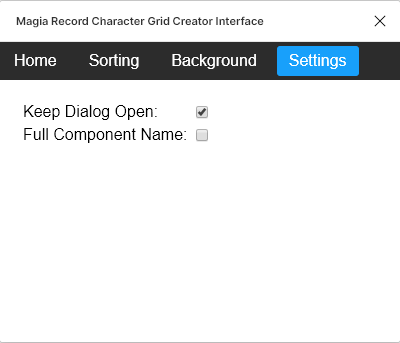
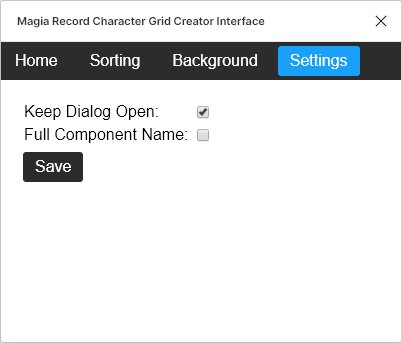
Added Saving Settings and Fixed Background Bug

diff --git a/src/ui.ts b/src/ui.ts
@@ -58,8 +58,13 @@ const ui = {
     },
     settings_tab:           document.getElementById('settings_tab') as HTMLDivElement,
     settings: {
-      keep_open_checkbox:   document.getElementById('keep_open') as HTMLInputElement,
-      full_name_checkbox:   document.getElementById('full_name') as HTMLInputElement,
+      fields: {
+        keep_open_checkbox:   document.getElementById('keep_open') as HTMLInputElement,
+        full_name_checkbox:   document.getElementById('full_name') as HTMLInputElement,
+      },
+      buttons: {
+        save_settings_button: document.getElementById('save_settings') as HTMLButtonElement,
+      }
     },
   }
 }
@@ -133,8 +138,8 @@ document.getElementById('create').onclick = () => {
   const magic = ui.tabs.home.fields.magic_select.value;
   const magia = ui.tabs.home.fields.magia_select.value;
   const episode = ui.tabs.home.fields.episode_select.value;
-  const full_name = ui.tabs.settings.full_name_checkbox.checked;
-  const keep_open = ui.tabs.settings.keep_open_checkbox.checked;
+  const full_name = ui.tabs.settings.fields.full_name_checkbox.checked;
+  const keep_open = ui.tabs.settings.fields.keep_open_checkbox.checked;
   parent.postMessage({ pluginMessage: { type: 'create-display', name, attribute, rank, level, magic, magia, episode, full_name, keep_open } }, '*')
 }
 
@@ -159,8 +164,8 @@ document.getElementById('update').onclick = () => {
   const magic = ui.tabs.home.fields.magic_select.value;
   const magia = ui.tabs.home.fields.magia_select.value;
   const episode = ui.tabs.home.fields.episode_select.value;
-  const full_name = ui.tabs.settings.full_name_checkbox.checked;
-  const keep_open = ui.tabs.settings.keep_open_checkbox.checked;
+  const full_name = ui.tabs.settings.fields.full_name_checkbox.checked;
+  const keep_open = ui.tabs.settings.fields.keep_open_checkbox.checked;
   parent.postMessage({ pluginMessage: { type: 'update-display', name, attribute, rank, level, magic, magia, episode, full_name, keep_open } }, '*')
 }
 
@@ -197,6 +202,15 @@ document.getElementById('resize_background').onclick = () => {
 // removes the current background.
 document.getElementById('remove_background').onclick = () => {
   parent.postMessage({ pluginMessage: { type: 'remove-background' } }, '*')
+}
+
+// save the settings to client storage.
+document.getElementById('save_settings').onclick = () => {
+  var settings = {};
+  for (var field in ui.tabs.settings.fields) {
+    settings[ui.tabs.settings.fields[field].id] = ui.tabs.settings.fields[field].checked;
+  }
+  parent.postMessage({ pluginMessage: { type: 'save-settings', settings: settings } }, '*')
 }
 
 
@@ -244,9 +258,17 @@ onmessage = (event) => {
     name_select.value = name_select.options[0].value;
   }
 
-  // Set isplay_properties with the properties of the current selection.
+  // Set display_properties with the properties of the current selection.
   else if (event.data.pluginMessage.type === 'update-properties') {
     display_properties = event.data.pluginMessage.display_properties
+  }
+
+  // Update the settings checkboxes.
+  else if (event.data.pluginMessage.type === 'update-settings') {
+    var settings = event.data.pluginMessage.settings;
+    for (var setting in settings) {
+      ui.tabs.settings.fields[setting+"_checkbox"].checked = settings[setting];
+    }
   }
 
   // Disable a specific button.

diff --git a/src/character.ts b/src/character.ts
@@ -1,4 +1,5 @@
 import {getDisplayProperties, sortArrayBy} from "./utils";
+import { isBackgroundInstance } from "./background";
 
 
 // Create a new Character Display and returns the instance.
@@ -43,6 +44,7 @@ function updateDisplay (instance: InstanceNode, parameters: any) {
 function setLocation (instance: InstanceNode) {
   if (figma.currentPage.selection.length != 1) return;
   var selection = figma.currentPage.selection[0];
+  if (isBackgroundInstance(selection)) selection = selection.parent as SceneNode;
   if (selection.type == "INSTANCE") {
     if (selection.parent.type == "FRAME" || selection.parent.type == "GROUP" || selection.parent.type == "COMPONENT" || selection.parent.type == "PAGE" || selection.parent.type == "DOCUMENT") {
       // set the instance x and y value.
@@ -58,12 +60,22 @@ function setLocation (instance: InstanceNode) {
     }
   } 
   else if (selection.type == "FRAME" || selection.type == "GROUP" || selection.type == "COMPONENT") {
-    if (selection.children.length > 0) {
-      var last_child = selection.children[0];
+    var last_child = null;
+    var hasBackground = selection.children.some(isBackgroundInstance);
+    if (selection.children.length > 0 && !hasBackground || selection.children.length > 1 && hasBackground) {
+      // get the last character display.
+      if (selection.children.length > 0 && !hasBackground) {
+        if (isCharacterDisplayInstance(selection.children[0]))
+          last_child = selection.children[0];
+      } else if (selection.children.length > 1 && hasBackground) {
+        if (isCharacterDisplayInstance(selection.children[1]))
+          last_child = selection.children[1];
+      } 
+    }
+    if (last_child != null) {
+      // set the instance x and y value.
       var x_next = last_child.x + last_child.width;
       var y_next = last_child.y;
-      
-      // set the instance x and y value.
       if (x_next < selection.width && y_next < selection.height) {
         instance.x = x_next;
         instance.y = y_next;
@@ -76,7 +88,8 @@ function setLocation (instance: InstanceNode) {
         return;
       }
     }
-    selection.insertChild(0, instance);
+    if (hasBackground) selection.insertChild(1, instance);
+    else selection.insertChild(0, instance);
   }
 }
 

diff --git a/src/utils.ts b/src/utils.ts
@@ -23,13 +23,14 @@ function getAttributeRanks (name: string) {
     if (child_name_split[1] == name) {
       var description = JSON.parse(child.description);
       result.attribute = description["attribute"];
-      var rank = parseInt(child_name_split[2].split(" ")[1], 10);
+      var rank = description["rank"];
       result.ranks[rank-1] = false;
     }
   });
   return result;
 }
 
+// get the character id of the name.
 function getCharacterId (name: string) {
   var character_image = figma.getNodeById("1:142") as FrameNode;
   var result = "0"
@@ -118,8 +119,8 @@ function compareVersion(documentCharacters: string, expectedCharacters: string) 
     }
     var result = documentCharacters.match(RegExp("[0-9](.[0-9])*"));
     var expected = expectedCharacters.match(RegExp("[0-9](.[0-9])*"));
-    console.log(result, expected);
-    console.log(parseFloat(result[0]), parseFloat(expected[0]));
+    // console.log(result, expected);
+    // console.log(parseFloat(result[0]), parseFloat(expected[0]));
     if (parseFloat(result[0]) >= parseFloat(expected[0])) {
       // console.log("same or greater version");
       return 0;
@@ -130,6 +131,23 @@ function compareVersion(documentCharacters: string, expectedCharacters: string) 
   } else {
     // console.log("same text");
     return 0;
+  }
+}
+
+const defaultSettings = {"keep_open":true, "full_name":false};
+
+async function getSettings() {
+  var settings = defaultSettings;
+  for (var setting in settings) {
+    var value = await figma.clientStorage.getAsync(setting);
+    if (value !== undefined) settings[setting] = value;
+  }
+  return settings;
+}
+
+async function saveSettings(settings: any) {
+  for (var setting in settings) {
+    await figma.clientStorage.setAsync(setting, settings[setting]);
   }
 }
 
@@ -188,4 +206,4 @@ function sortArrayBy(a: any, b: any, sortBy: any[]) {
   return result;
 }
 
-export {getNames, getAttributeRanks, getCharacterId, getDisplayProperties, compareVersion, printFrameDisplays, createComponentsFromChildren, ButtonOptionsModel, sortArrayBy};
+export {getNames, getAttributeRanks, getCharacterId, getDisplayProperties, compareVersion, getSettings, saveSettings, printFrameDisplays, createComponentsFromChildren, ButtonOptionsModel, sortArrayBy};

diff --git a/src/code.ts b/src/code.ts
@@ -1,9 +1,9 @@
-import {getNames, getAttributeRanks, getDisplayProperties, createComponentsFromChildren, compareVersion, ButtonOptionsModel} from "./utils";
+import {getNames, getAttributeRanks, getDisplayProperties, createComponentsFromChildren, compareVersion, getSettings, saveSettings, ButtonOptionsModel} from "./utils";
 import {getBackgroundNames, isBackgroundInstance, updateBackground, setBackgroundSizeLocation, removeBackground } from "./background";
 import {createDisplay, setLocation, updateDisplay, convertToCharacterDisplay, isCharacterDisplay, isCharacterDisplayInstance, sortDisplays} from "./character";
 
 
-const documentVersion = "Document Version: 4";
+const documentVersion = "Document Version: 5";
 
 // show the HTML page in "ui.html" and resize.
 figma.showUI(__html__);
@@ -120,6 +120,11 @@ figma.ui.onmessage = msg => {
         message = "Please reduplicate the project.";
         figma.notify(message, {timeout: 5000});
       }
+      // load settings.
+      getSettings().then(settings => {
+        figma.ui.postMessage({type: 'update-settings', settings:settings });
+      })
+      // load font.
       figma.loadFontAsync({ family: "Roboto", style: "Regular" }).then(() => {
         // get the names and set the name select fields.
         var names = getNames();
@@ -183,6 +188,11 @@ figma.ui.onmessage = msg => {
     removeBackground();
   }
   
+  // save settings to client storage.
+  else if (msg.type === 'save-settings') {
+    saveSettings(msg.settings);
+  }
+
   // close the plugin.
   else if (msg.type === 'cancel') {    
     figma.closePlugin();

diff --git a/src/ui.html b/src/ui.html
@@ -11,7 +11,7 @@
                 <table id="fields_table" width=100%>
                     <tr>
                         <td>Name:</td>
-                        <td><select id="name"></select></td>
+                        <td><select id="name" style="width:214px"></select></td>
                     </tr>
                     <tr>
                         <td>Attribute: 
@@ -158,7 +158,7 @@
                 <table id="background_table" width=100%>
                     <tr>
                         <td>Background Type: 
-                        <td><select id="background_type">
+                        <td><select id="background_type" style="width:206">
                             <option selected value="Home Screen">Home Screen</option>
                             <option value="Web Backgrounds">Web Backgrounds</option>
                             <option value="Story Backgrounds">Story Backgrounds</option>
@@ -167,7 +167,7 @@
                     <tr>
                         </td>
                         <td>Background Name: 
-                        <td><select id="background_name"></select></td>
+                        <td><select id="background_name" style="width:206"><td>
                     </tr>
                 </table>
             </div>
@@ -188,6 +188,8 @@
                     <td><input id="full_name" type="checkbox"></td>
                 </tr>
             </table>
+            
+            <button id="save_settings" class="button buttonGray" >Save</button>
         </div>
     </div>
 </body>

diff --git a/src/background.ts b/src/background.ts
@@ -8,6 +8,7 @@ function getBackgroundNames(type: string) {
   background_frame.children.forEach(function(child: ComponentNode) {
     var name = child.name;
     if (names.indexOf(name) == -1) {
+      if (name.indexOf("Background/") == 0) name = name.split("/")[1];
       names.push(name);
     }
   });
@@ -37,7 +38,7 @@ function updateBackground(type: string, name: string) {
   var background_id: string;
   // search for component id.
   background_frame.children.forEach(function(child: ComponentNode) {
-    if (child.name == name) {
+    if (child.name == name || child.name == "Background/" + name) {
       background_id = child.id;
       return;
     }

diff --git a/README.md b/README.md
@@ -70,7 +70,7 @@ This plugin is for creating a grid view of your Magical Girls in the game [Magia
 
 ### Removing a Background.
 1. Navigate to the `Background Tab`.
-2. Select the frame you want to add a background to.
+2. Select the frame you want to remove a background from.
 3. Press `Remove`.
 
 ## Gallery
@@ -84,7 +84,11 @@ Name Select:
 
 Sorting:
 
-![Settings](https://raw.githubusercontent.com/Leochan6/figma-magireco/master/readme/Sorting.png)
+![Sorting](https://raw.githubusercontent.com/Leochan6/figma-magireco/master/readme/Sorting.png)
+
+Background:
+
+![Background](https://raw.githubusercontent.com/Leochan6/figma-magireco/master/readme/Background.png)
 
 Settings:
 
